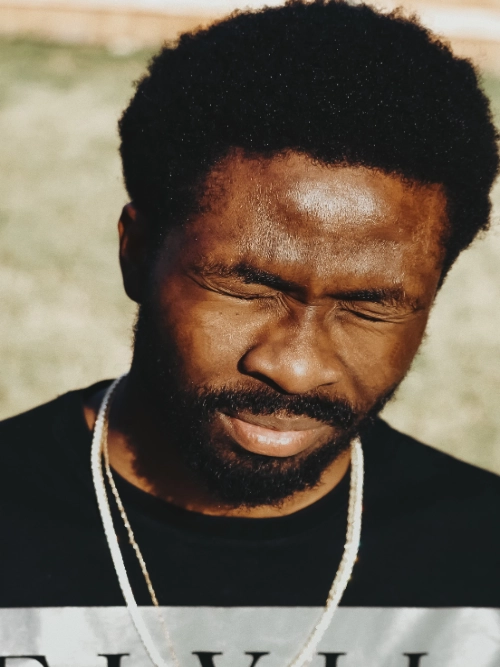
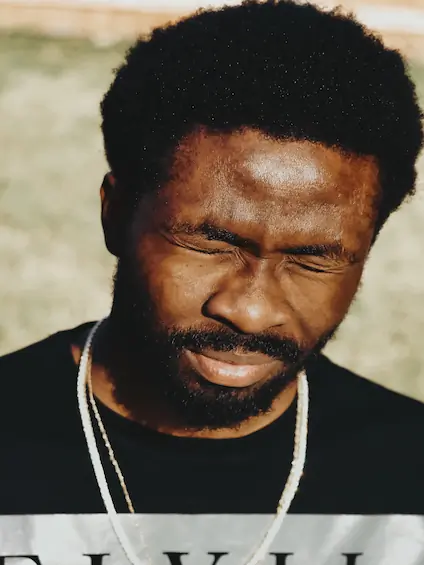
fix( size + accessibility ): changement des tailles d'images physique et en css

diff --git a/assets/maugallery-min.js b/assets/maugallery-min.js
@@ -1,0 +1,12 @@
+!function(a){a.fn.mauGallery=function(t){var t=a.extend(a.fn.mauGallery.defaults,t),e=[];return this.each(function(){a.fn.mauGallery.methods.createRowWrapper(a(this)),t.lightBox&&a.fn.mauGallery.methods.createLightBox(a(this),t.lightboxId,t.navigation),a.fn.mauGallery.listeners(t),a(this).children(".gallery-item").each(function(l){a.fn.mauGallery.methods.responsiveImageItem(a(this)),a.fn.mauGallery.methods.moveItemInRowWrapper(a(this)),a.fn.mauGallery.methods.wrapItemInColumn(a(this),t.columns);var i=a(this).data("gallery-tag");t.showTags&&void 0!==i&&-1===e.indexOf(i)&&e.push(i)}),t.showTags&&a.fn.mauGallery.methods.showItemTags(a(this),t.tagsPosition,e),a(this).fadeIn(500)})},a.fn.mauGallery.defaults={columns:3,lightBox:!0,lightboxId:null,showTags:!0,tagsPosition:"bottom",navigation:!0},a.fn.mauGallery.listeners=function(t){a(".gallery-item").on("click",function(){t.lightBox&&"IMG"===a(this).prop("tagName")&&a.fn.mauGallery.methods.openLightBox(a(this),t.lightboxId)}),a(".gallery").on("click",".nav-link",a.fn.mauGallery.methods.filterByTag),a(".gallery").on("click",".mg-prev",()=>a.fn.mauGallery.methods.prevImage(t.lightboxId)),a(".gallery").on("click",".mg-next",()=>a.fn.mauGallery.methods.nextImage(t.lightboxId))},a.fn.mauGallery.methods={createRowWrapper(a){a.children().first().hasClass("row")||a.append('<div class="gallery-items-row row"></div>')},wrapItemInColumn(a,t){if(t.constructor===Number)a.wrap(`<div class='item-column mb-4 col-${Math.ceil(12/t)}'></div>`);else if(t.constructor===Object){var e="";t.xs&&(e+=` col-${Math.ceil(12/t.xs)}`),t.sm&&(e+=` col-sm-${Math.ceil(12/t.sm)}`),t.md&&(e+=` col-md-${Math.ceil(12/t.md)}`),t.lg&&(e+=` col-lg-${Math.ceil(12/t.lg)}`),t.xl&&(e+=` col-xl-${Math.ceil(12/t.xl)}`),a.wrap(`<div class='item-column mb-4${e}'></div>`)}else console.error(`Columns should be defined as numbers or objects. ${typeof t} is not supported.`)},moveItemInRowWrapper(a){a.appendTo(".gallery-items-row")},responsiveImageItem(a){"IMG"===a.prop("tagName")&&a.addClass("img-fluid")},openLightBox(t,e){a(`#${e}`).find(".lightboxImage").attr("src",t.attr("src")),a(`#${e}`).modal("toggle")},prevImage(){let t=null;a("img.gallery-item").each(function(){a(this).attr("src")===a(".lightboxImage").attr("src")&&(t=a(this))});let e=a(".tags-bar span.active-tag").data("images-toggle"),l=[];"all"===e?a(".item-column").each(function(){a(this).children("img").length&&l.push(a(this).children("img"))}):a(".item-column").each(function(){a(this).children("img").data("gallery-tag")===e&&l.push(a(this).children("img"))});let i=0,s=null;a(l).each(function(e){a(t).attr("src")===a(this).attr("src")&&(i=e-1)}),s=l[i]||l[l.length-1],a(".lightboxImage").attr("src",a(s).attr("src"))},nextImage(){let t=null;a("img.gallery-item").each(function(){a(this).attr("src")===a(".lightboxImage").attr("src")&&(t=a(this))});let e=a(".tags-bar span.active-tag").data("images-toggle"),l=[];"all"===e?a(".item-column").each(function(){a(this).children("img").length&&l.push(a(this).children("img"))}):a(".item-column").each(function(){a(this).children("img").data("gallery-tag")===e&&l.push(a(this).children("img"))});let i=0,s=null;a(l).each(function(e){a(t).attr("src")===a(this).attr("src")&&(i=e+1)}),s=l[i]||l[0],a(".lightboxImage").attr("src",a(s).attr("src"))},createLightBox(a,t,e){a.append(`<div class="modal fade" id="${t||"galleryLightbox"}" tabindex="-1" role="dialog" aria-hidden="true">
+                <div class="modal-dialog" role="document">
+                    <div class="modal-content">
+                        <div class="modal-body">
+                            ${e?'<div class="mg-prev" style="cursor:pointer;position:absolute;top:50%;left:-15px;background:white;"><</div>':'<span style="display:none;" />'}
+                            <img class="lightboxImage img-fluid" alt="Contenu de l'image affich\xe9e dans la modale au clique"/>
+                            ${e?'<div class="mg-next" style="cursor:pointer;position:absolute;top:50%;right:-15px;background:white;}">></div>':'<span style="display:none;" />'}
+                        </div>
+                    </div>
+                </div>
+            </div>`)},showItemTags(t,e,l){var i='<li class="nav-item"><span class="nav-link active active-tag"  data-images-toggle="all">Tous</span></li>';a.each(l,function(a,t){i+=`<li class="nav-item active">
+                <span class="nav-link"  data-images-toggle="${t}">${t}</span></li>`});var s=`<ul class="my-4 tags-bar nav nav-pills">${i}</ul>`;"bottom"===e?t.append(s):"top"===e?t.prepend(s):console.error(`Unknown tags position: ${e}`)},filterByTag(){if(!a(this).hasClass("active-tag")){a(".active.active-tag").removeClass("active active-tag"),a(this).addClass("active-tag active");var t=a(this).data("images-toggle");a(".gallery-item").each(function(){a(this).parents(".item-column").hide(),"all"===t?a(this).parents(".item-column").show(300):a(this).data("gallery-tag")===t&&a(this).parents(".item-column").show(300)})}}}}(jQuery);

diff --git a/index.html b/index.html
@@ -96,7 +96,7 @@
       integrity="sha256-CSXorXvZcTkaix6Yvo6HppcZGetbYMGWSFlBw8HfCJo="
       crossorigin="anonymous"
     ></script>
-    <script src="./assets/maugallery.js" defer></script>
+    <script src="./assets/maugallery-min.js" defer></script>
     <script src="./assets/scripts.js" defer></script>
   </head>
   <body>
@@ -115,7 +115,11 @@
               target="_blank"
               rel="noopener noreferrer"
               aria-label="Instagram"
-              ><img src="assets/images/instagram.png" alt="Lien vers Instagram"
+              ><img
+                src="assets/images/instagram.png"
+                alt="Lien vers Instagram"
+                width="20px"
+                height="20px"
             /></a>
           </li>
         </ul>
@@ -157,13 +161,17 @@
                 srcset="
                   ./assets/images/slider/ryoji-iwata-480.webp   480w,
                   ./assets/images/slider/ryoji-iwata-768.webp   768w,
-                  ./assets/images/slider/ryoji-iwata-1280.webp 1280w
+                  ./assets/images/slider/ryoji-iwata-1280.webp 1280w,
+                  ./assets/images/slider/ryoji-iwata-1920.webp 1920w
                 "
-                sizes="(max-width: 767px) 480px,
-						(max-width: 1024px) 768px,
-						1280px"
+                sizes=" (max-width: 767px) 480px,
+                        (max-width: 1024px) 768px,
+                        (max-width: 1280px) 1280px,
+                        1920px"
                 class="d-block w-100"
                 alt="Homme en costume traversant un passage piéton vu de haut"
+                width="1921"
+                height="888"
               />
             </div>
             <div class="carousel-item">
@@ -172,13 +180,17 @@
                 srcset="
                   ./assets/images/slider/nicholas-green-480.webp   480w,
                   ./assets/images/slider/nicholas-green-768.webp   768w,
-                  ./assets/images/slider/nicholas-green-1280.webp 1280w
+                  ./assets/images/slider/nicholas-green-1280.webp 1280w,
+                  ./assets/images/slider/nicholas-green-1920.webp 1920w
                 "
                 sizes="(max-width: 767px) 480px,
-						(max-width: 1024px) 768px,
-						1280px"
+                      (max-width: 1024px) 768px,
+                      (max-width: 1280px) 1280px,
+                      1920px"
                 class="d-block w-100"
                 alt="Personnes marchant dans une rue urbaine avec un jeu de lumière"
+                width="1921"
+                height="888"
               />
             </div>
             <div class="carousel-item">
@@ -188,11 +200,16 @@
                   ./assets/images/slider/edward-cisneros-480.webp   480w,
                   ./assets/images/slider/edward-cisneros-768.webp   768w,
                   ./assets/images/slider/edward-cisneros-1280.webp 1280w
+                  ./assets/images/slider/edward-cisneros-1920.webp 1920w
                 "
                 sizes="(max-width: 767px) 480px,
-						(max-width: 1024px) 768px,webp				1280px"
+                        (max-width: 1024px) 768px,	
+                        (max-width: 1280px)	1280px,
+                        1920px"
                 class="d-block w-100"
                 alt="Couple s'embrassant lors d'un mariage"
+                width="1921"
+                height="888"
               />
             </div>
           </div>
@@ -201,6 +218,7 @@
             type="button"
             data-bs-target="#carouselExampleIndicators"
             data-bs-slide="prev"
+            aria-label="image précédente"
           >
             <span class="carousel-control-prev-icon" aria-hidden="true"></span>
             <span class="visually-hidden">Previous</span>
@@ -210,6 +228,7 @@
             type="button"
             data-bs-target="#carouselExampleIndicators"
             data-bs-slide="next"
+            aria-label="image suivante"
           >
             <span class="carousel-control-next-icon" aria-hidden="true"></span>
             <span class="visually-hidden">Next</span>
@@ -219,9 +238,12 @@
       <section id="about">
         <div class="picture left">
           <img
-            src="./assets/images/nina.webp"
+            src="./assets/images/nina-497.webp"
             alt="photo de Nina Carducci"
-            sizes=""
+            class="nina-photo"
+            width="500"
+            height="498"
+            loading="lazy"
           />
         </div>
         <article id="about-me">
@@ -412,7 +434,7 @@
           <p>
             N’hésitez pas à m’écrire ! Je vous répondrais en moins de 24 heures
           </p>
-          <form action="mailto:nina.carducci@email.com" method="post">
+          <form action="" method="post">
             <label for="nom">Nom</label>
             <input type="text" name="nom" id="nom" required />
             <label for="email">Email</label>

diff --git a/assets/style.css b/assets/style.css
@@ -39,7 +39,8 @@ body {
 }
 
 .social-link img {
-  width: 20px;
+  width: 1.25rem;
+  height: 1.25rem;
 }
 
 #about {
@@ -48,6 +49,16 @@ body {
   padding-inline: 100px;
   padding-block: 100px;
   position: relative;
+}
+.picture.left img {
+  width: 100%;
+  max-width: 500px;
+  height: auto;
+  max-height: 60vh;
+  aspect-ratio: 1460 / 1456;
+  object-fit: cover;
+  object-position: center;
+  display: block;
 }
 
 .picture.left::before {
@@ -70,6 +81,7 @@ body {
 .picture img {
   width: 100%;
 }
+
 #about-me {
   flex: 2;
 }
@@ -89,9 +101,21 @@ body {
   font-size: 14px;
 }
 
-#gallery {
-  /*	min-height: 100vh; */
+/* Supprimer le focus par défaut du bouton */
+.carousel-control-prev,
+.carousel-control-next {
+  outline: none !important;
+  box-shadow: none !important;
 }
+
+/* Alternative avec une bordure plus subtile */
+.carousel-control-prev:focus .carousel-control-prev-icon,
+.carousel-control-next:focus .carousel-control-next-icon {
+  box-shadow: 0 0 0 3px rgb(2, 2, 2);
+  border-radius: 8px;
+  background-color: rgba(255, 255, 255, 0.2);
+}
+
 .title {
   text-align: center;
   padding-block: 2em;

diff --git a/assets/bootstrap/bootstrap.css b/assets/bootstrap/bootstrap.css
@@ -6388,7 +6388,7 @@ fieldset:disabled .btn {
   justify-content: center;
   width: 15%;
   padding: 0;
-  color: #fff;
+  color: #545454;
   text-align: center;
   background: none;
   border: 0;
@@ -6408,7 +6408,7 @@ fieldset:disabled .btn {
   color: #fff;
   text-decoration: none;
   outline: 0;
-  opacity: 0.9;
+  opacity: 1;
 }
 
 .carousel-control-prev {
@@ -6474,7 +6474,7 @@ fieldset:disabled .btn {
   border: 0;
   border-top: 10px solid transparent;
   border-bottom: 10px solid transparent;
-  opacity: 0.5;
+  opacity: 1;
   transition: opacity 0.6s ease;
 }
 @media (prefers-reduced-motion: reduce) {
